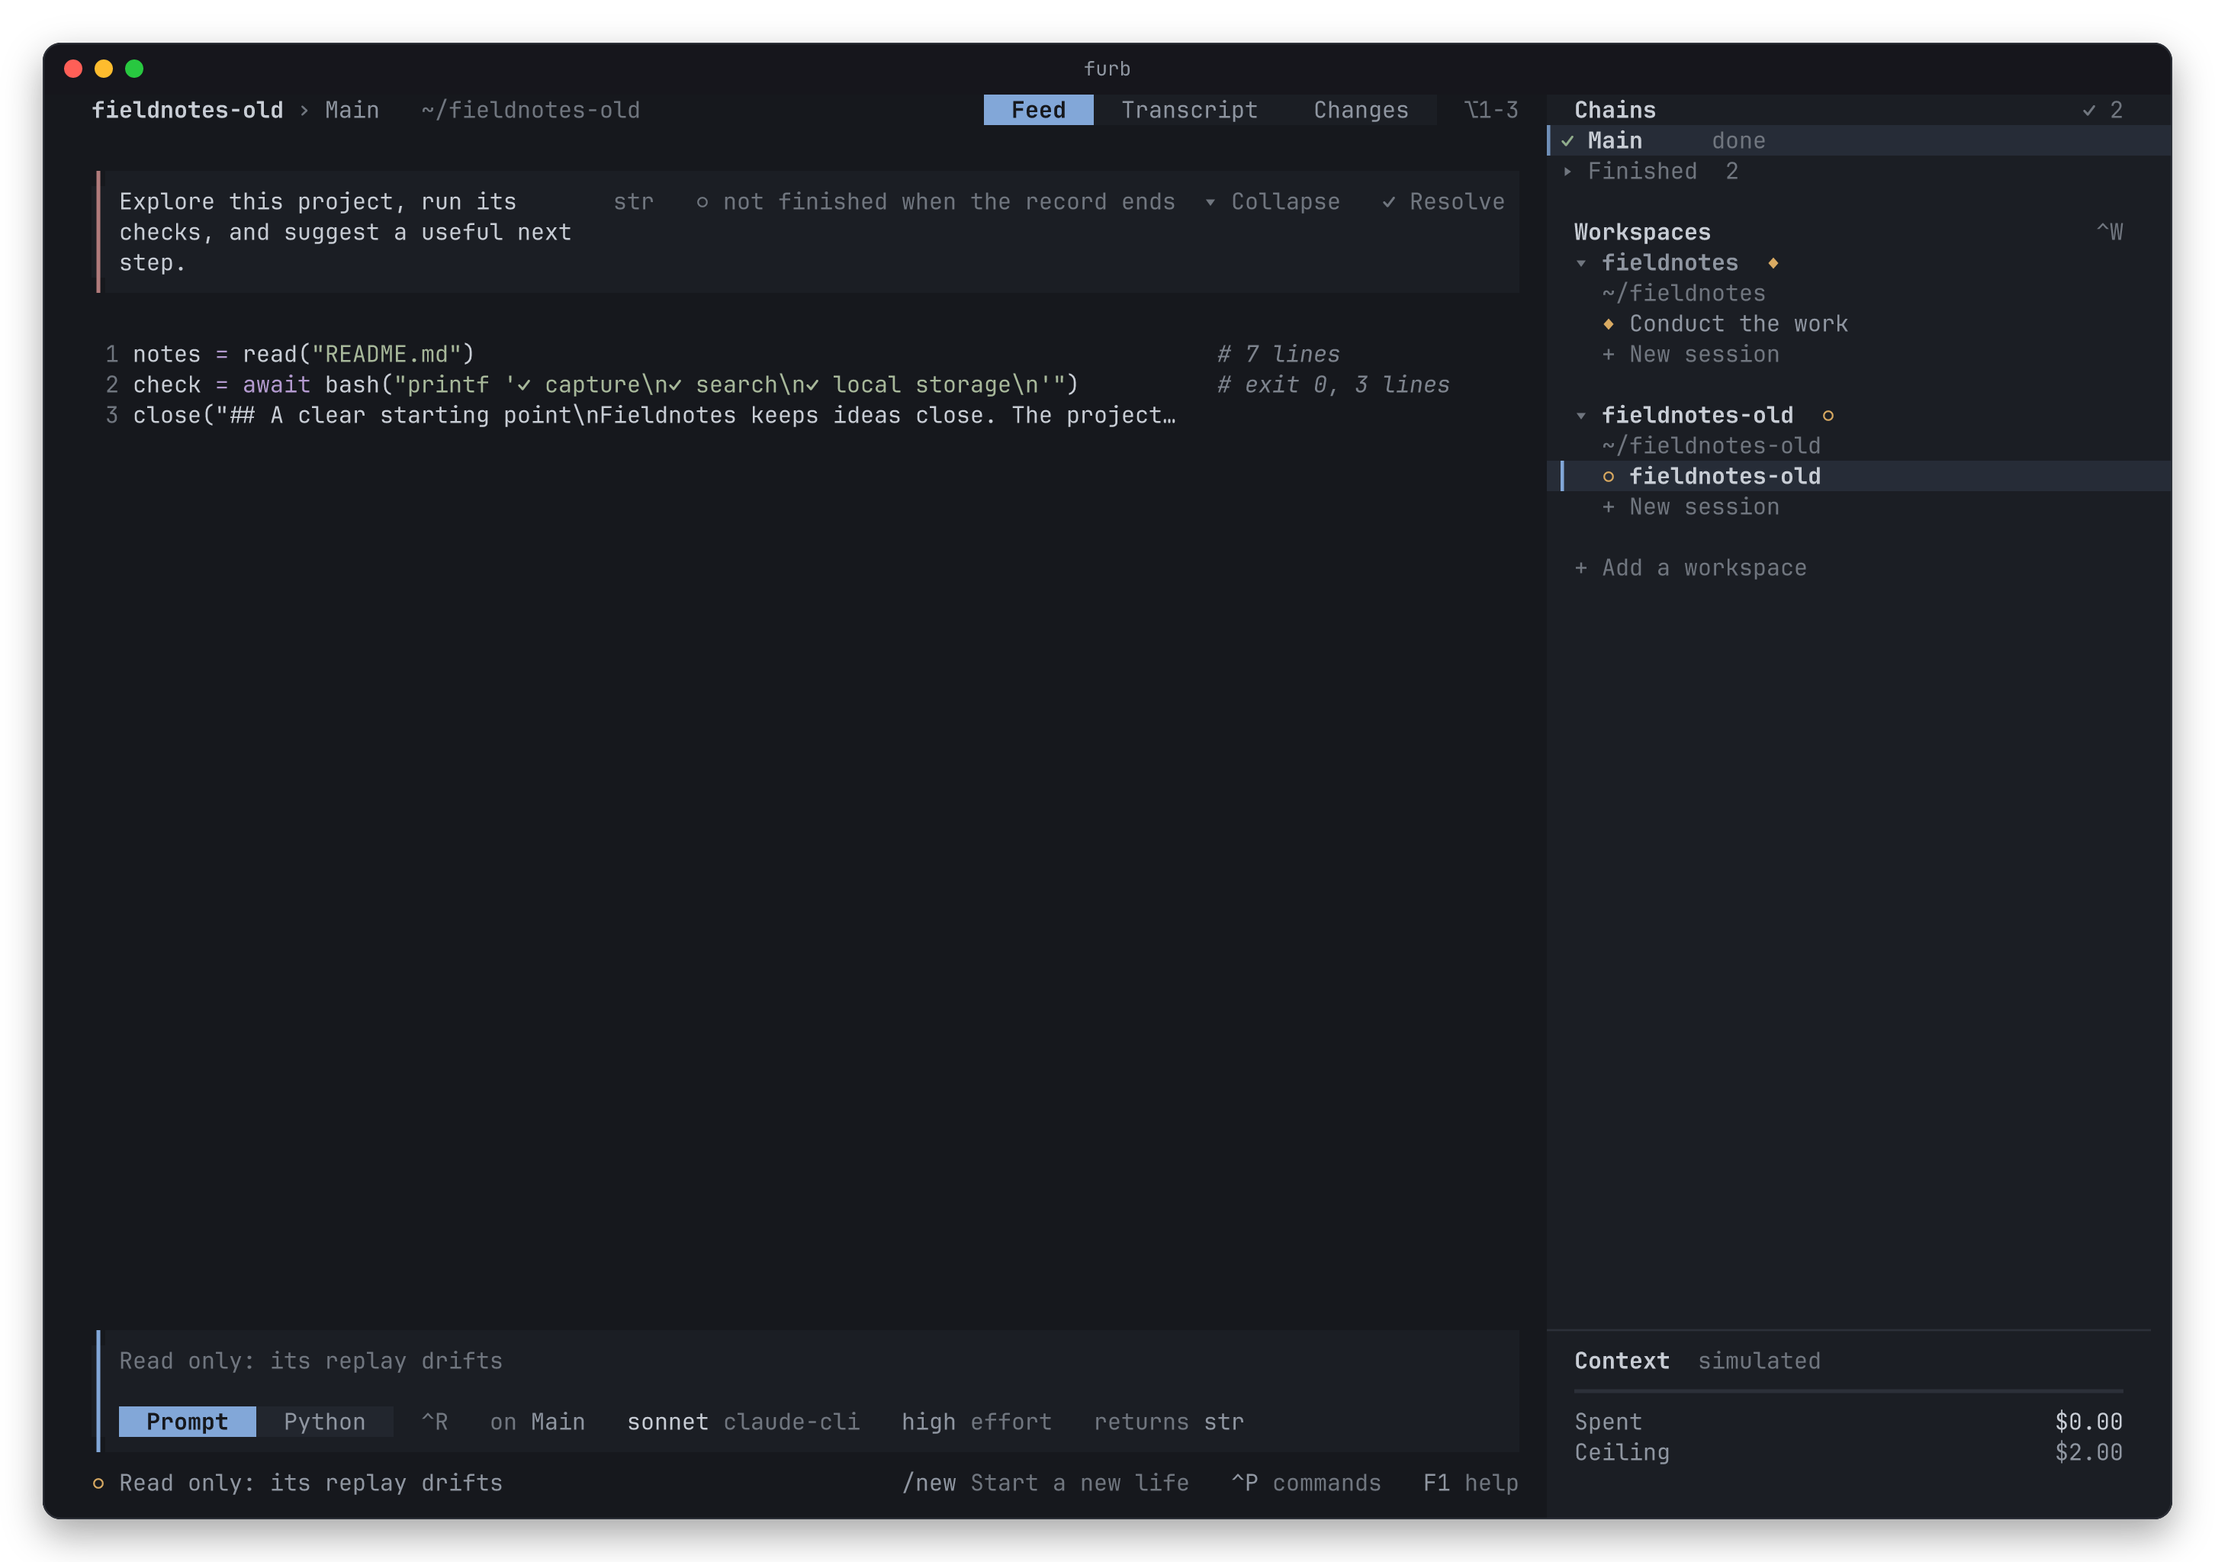
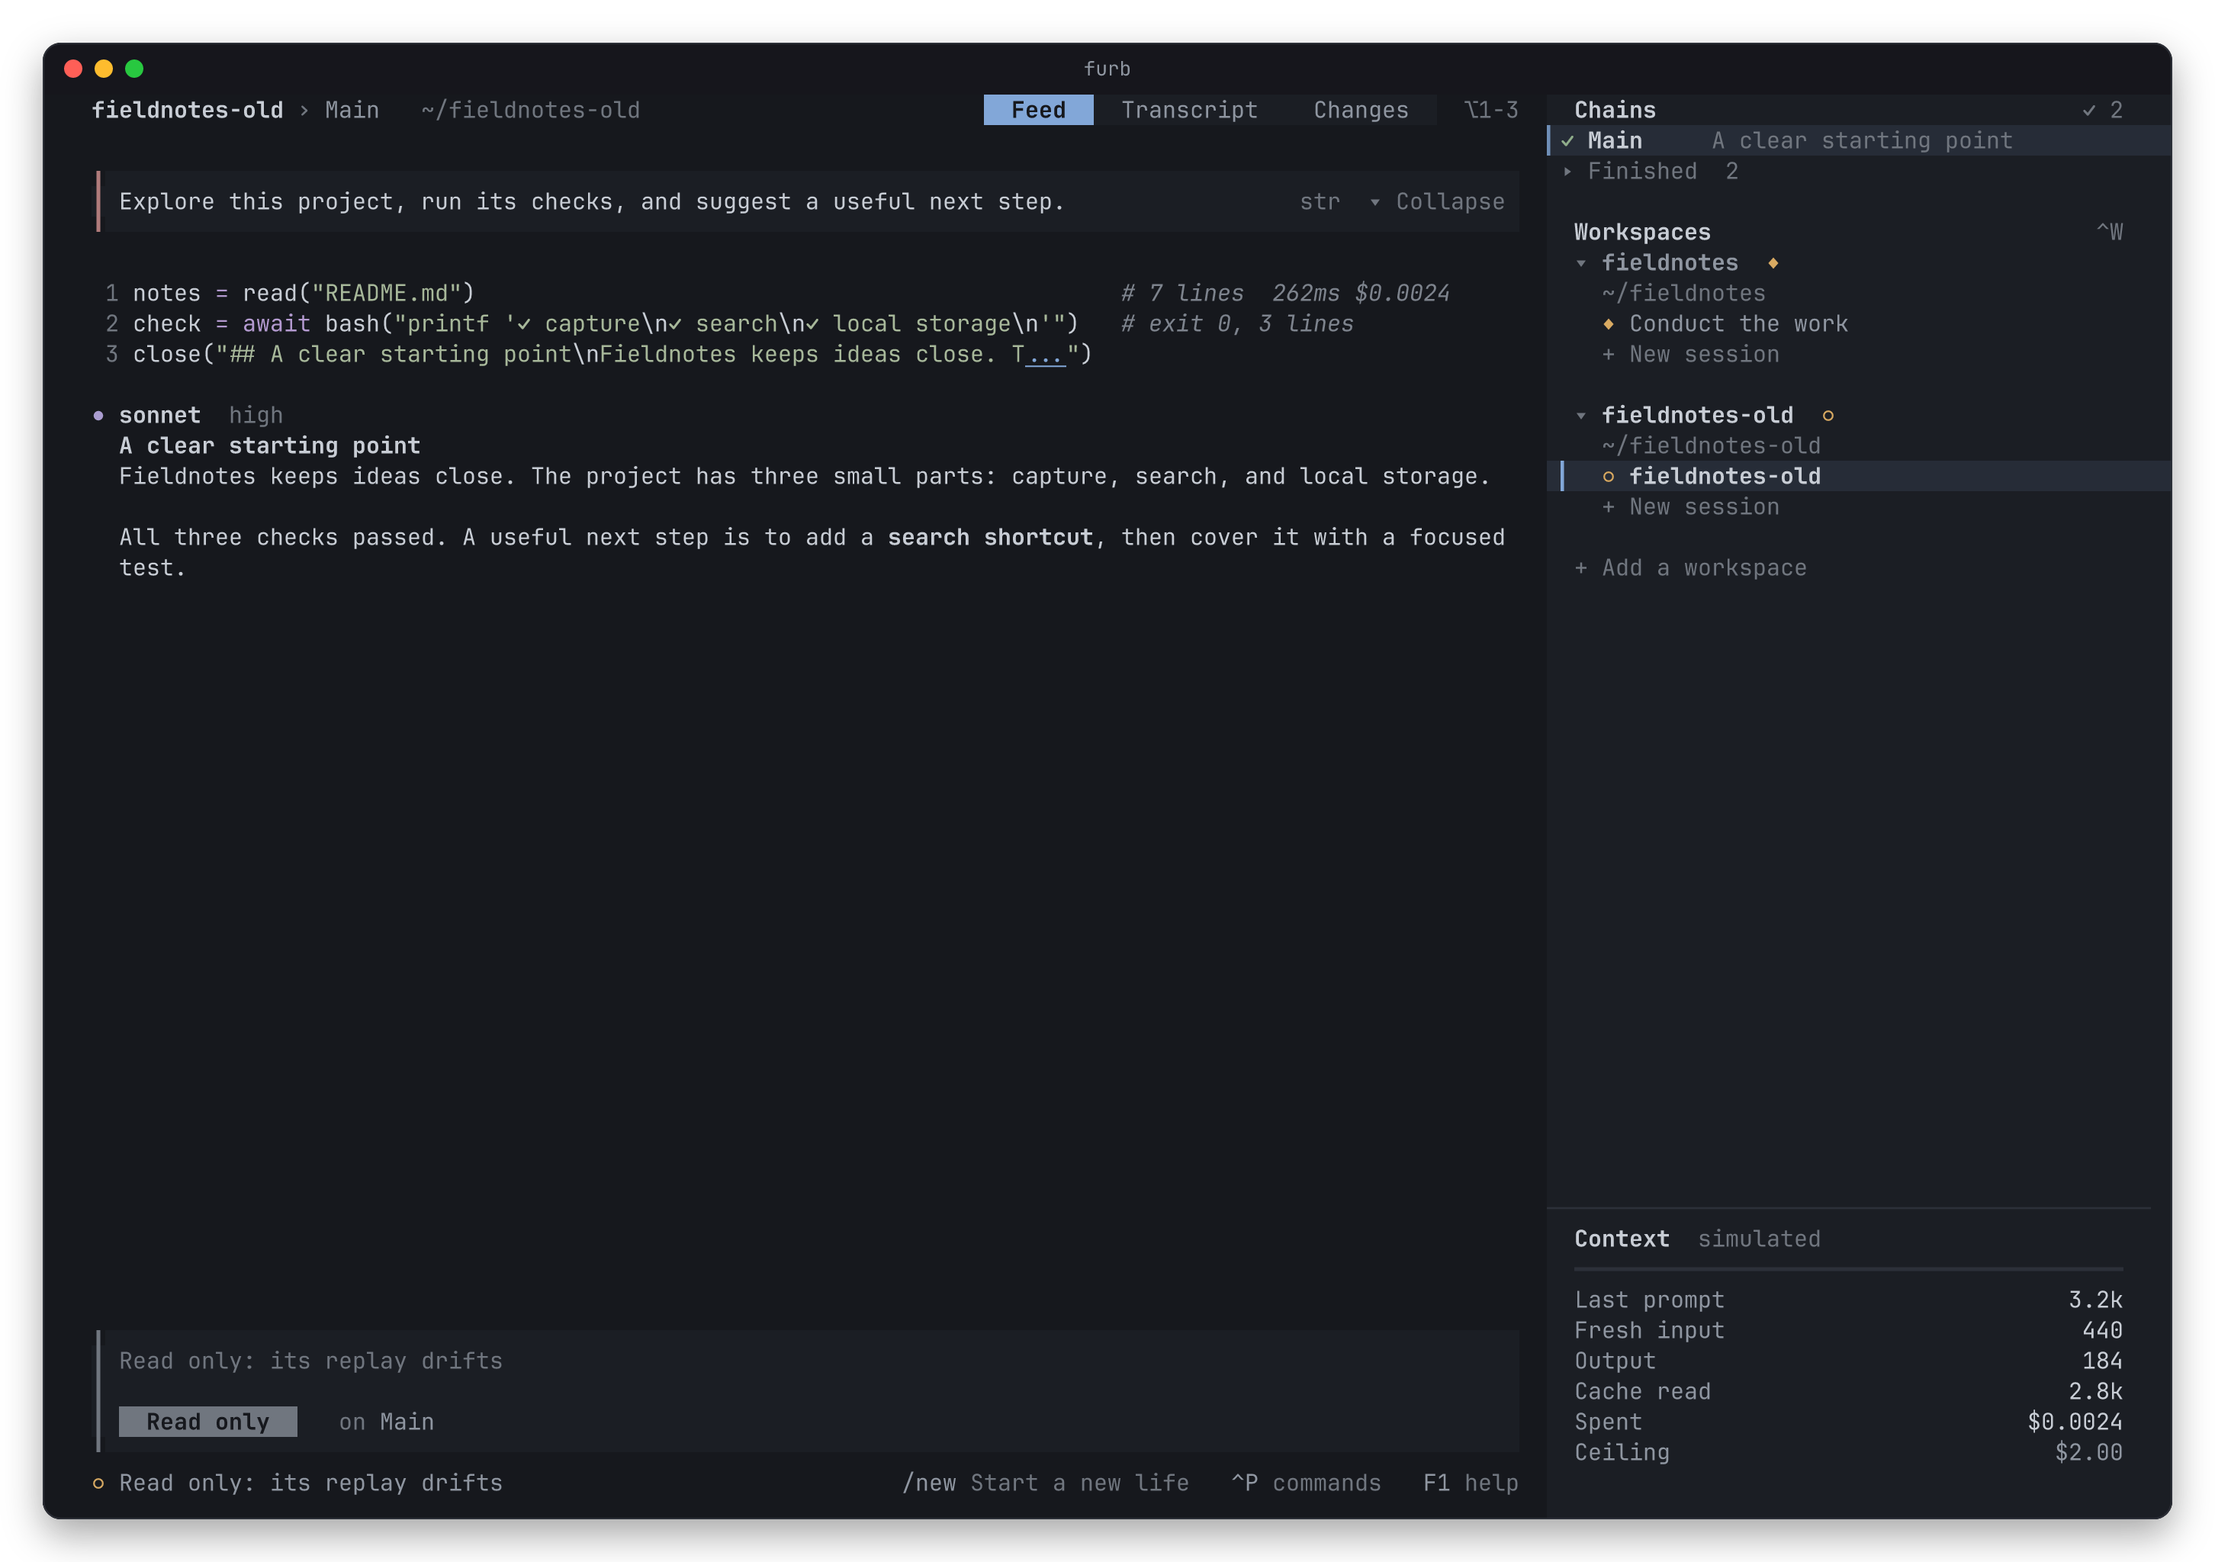
fix(tui): Finish read-only record views

diff --git a/tui/src/app.ts b/tui/src/app.ts
@@ -1257,22 +1257,25 @@ export class App {
       );
     }
     const choosing = this.picking();
-    const [mode, modeColor, placeholder] = w.editing
-      ? ["Edit program", c.warning, "Edit this prompt's Python program"]
-      : pending
-        ? [
-            "Answer",
-            c.warning,
-            choosing
-              ? `Your own words in place of ${wants(pending)}. Esc goes back to the values.`
-              : `Your answer to ${pending.id}, as ${pending.shape}`,
-          ]
-        : w.mode === "python"
-          ? ["Python", c.secondary, "Write Python. The gate reads it before it runs."]
-          : ["Prompt", c.accent, "Ask anything, or type / for commands"];
+    const reading = w.host.reading;
+    const [mode, modeColor, placeholder] = reading
+      ? ["Read only", c.faint, readOnly(reading)]
+      : w.editing
+        ? ["Edit program", c.warning, "Edit this prompt's Python program"]
+        : pending
+          ? [
+              "Answer",
+              c.warning,
+              choosing
+                ? `Your own words in place of ${wants(pending)}. Esc goes back to the values.`
+                : `Your answer to ${pending.id}, as ${pending.shape}`,
+            ]
+          : w.mode === "python"
+            ? ["Python", c.secondary, "Write Python. The gate reads it before it runs."]
+            : ["Prompt", c.accent, "Ask anything, or type / for commands"];
     for (const edge of this.composeEdges) if (edge.borderColor !== modeColor) edge.borderColor = modeColor;
     this.composer.cursorColor = modeColor;
-    this.composer.placeholder = w.host.reading ? readOnly(w.host.reading) : placeholder;
+    this.composer.placeholder = placeholder;
     this.renderPick(choosing);
     // The box holds the values of a choice, or the lines of the text, up to six, then a row of space and the line
     // under the text. While Other takes the words of the operator, it holds both.
@@ -1396,7 +1399,8 @@ export class App {
     const { model, effort } = w.actorChoice;
     const { provider, id: name } = modelName(model);
     const stash = w.stashes[w.draftKey];
-    const prompt = w.mode === "prompt" && !w.editing && !pending;
+    const reading = Boolean(w.host.reading);
+    const prompt = w.mode === "prompt" && !w.editing && !pending && !reading;
     // The line spans the input but its bar and its padding.
     const room = this.feedWidth - 3;
     if (
@@ -1411,6 +1415,7 @@ export class App {
         pending?.shape,
         stash,
         prompt,
+        reading,
         room,
         this.theme,
       ])
@@ -1419,7 +1424,7 @@ export class App {
     this.clear(this.meta);
     // A narrow input leaves out, in this order, the provider, the type of the answer, the effort, and the chord of the
     // switch, and the stash shows less of what waits in it.
-    const edited = Boolean(w.editing || pending);
+    const edited = Boolean(w.editing || pending || reading);
     const shown = { chord: !edited, provider: prompt && Boolean(provider), shape: prompt, effort: prompt };
     const gaps = 3;
     const width = () =>
@@ -3824,12 +3829,10 @@ export class App {
   private renderPick(ask: Ask | undefined): void {
     if (this.pickBox.visible !== Boolean(ask)) this.pickBox.visible = Boolean(ask);
     const typing = !ask || this.choice.other;
-    if (this.composer.visible !== typing) {
-      this.composer.visible = typing;
-      // The input takes the keys again once no list holds them.
-      if (typing && !this.overlay) this.composer.focus();
-      else this.composer.blur();
-    }
+    if (this.composer.visible !== typing) this.composer.visible = typing;
+    // A record open to read has no input, including when a control last focused it.
+    if (this.session.host.reading || !typing || this.overlay) this.composer.blur();
+    else if (!this.composer.focused) this.composer.focus();
     if (!ask) {
       this.pickKey = "";
       return;
@@ -4902,10 +4905,12 @@ export class App {
       const chip = (label: string, run: () => void) =>
         controls.add(this.text([[` ${label} `, c.text, 0, c.raised]], c.text, { run }));
       chip(folded ? "Expand" : "Collapse", () => this.foldThread(id));
-      if (one.resolved) chip("Open again", () => this.reopenThread(id));
-      else chip("Resolve", () => this.resolveThread(one));
-      const ask = one.asks[0];
-      if (ask) chip("Answer", () => void w.point(ask).catch(this.report));
+      if (!w.host.reading) {
+        if (one.resolved) chip("Open again", () => this.reopenThread(id));
+        else chip("Resolve", () => this.resolveThread(one));
+        const ask = one.asks[0];
+        if (ask) chip("Answer", () => void w.point(ask).catch(this.report));
+      }
       this.railSession.add(controls);
     }
     const after = list.length - from - room;
@@ -4963,12 +4968,14 @@ export class App {
   }
   /** A thread resolves: its open prompt closes, and the model that works for it stops. */
   private resolveThread(thread: ChainThread): void {
+    if (this.session.host.reading) return;
     const open = [thread.act, ...thread.messages].findLast((act) => !act.done);
     if (open) void this.session.resolve(open.id).catch(this.report);
   }
   /** A thread opens again: the input takes the message that goes to it. */
   private reopenThread(id: string): void {
     const w = this.session;
+    if (w.host.reading) return;
     w.thread = id;
     this.railAt = id;
     w.notice = `Your next message goes to ${id} and opens it again.`;
@@ -5036,6 +5043,7 @@ export class App {
         () => this.foldThread(id, true),
       ),
     );
+    if (this.session.host.reading) return row;
     if (thread?.resolved)
       row.add(
         this.link(
@@ -5840,7 +5848,7 @@ export class App {
             },
           ]
         : []),
-      ...(!act.done && !act.unfinished && WORK.includes(act.kind)
+      ...(!w.host.reading && !act.done && !act.unfinished && WORK.includes(act.kind)
         ? [
             w.lastOwn?.id === act.id && message
               ? {
@@ -5855,7 +5863,7 @@ export class App {
                 },
           ]
         : []),
-      ...(this.isPoint(act)
+      ...(!w.host.reading && this.isPoint(act)
         ? [
             {
               label: message ? "Edit and send again" : "Branch after it",

diff --git a/tui/src/reading.ts b/tui/src/reading.ts
@@ -170,6 +170,13 @@ function tupled(value: unknown): unknown[] | undefined {
   return Array.isArray(held.args[0]) ? held.args[0] : held.args;
 }
 
+/** The tuple value of a recorded model answer, as the values that Activity reads. */
+function answerValue(value: unknown): unknown[] | undefined {
+  const items = tupled(value);
+  if (!items || items.length !== 4) return undefined;
+  return [items[0], items[1], tupled(items[2]) ?? items[2], items[3]];
+}
+
 /** How many characters of a turn the first word of a new life keeps, and how many it keeps of all turns. */
 const TURN = 1500;
 const BUDGET = 30000;
@@ -233,6 +240,7 @@ export class Reader {
     // stays so, with no end to come: it neither runs nor waits for a wake, so it counts as no work at all. A chain is no work, and stays as it is. A
     // rung whose run ended in the facts that the record kept ended with it. A recorded life shows a moment of a life,
     // so its work stands as it stood at that moment.
+    if (reading) this.settle();
     if (reading) reading.carries = this.carries();
     if (reading)
       for (const act of this.activity.acts.values()) {
@@ -242,6 +250,34 @@ export class Reader {
         if (!act.done && WORK.includes(act.kind) && !(act.kind === "rung" && act.run?.status !== "running"))
           act.unfinished = true;
       }
+  }
+  /** A model answer whose tuple values the activity reads from the live engine. */
+  private normalize(fact: Fact): Fact {
+    if (fact[0] !== "done" || !isQuestion("reply", fact[1])) return fact;
+    const value = answerValue(fact[3]);
+    return value ? ([fact[0], fact[1], fact[2], value, ...fact.slice(4)] as Fact) : fact;
+  }
+  /** Ends work that a recorded close or cancel already ended in the life. */
+  private settle(): void {
+    for (const [at, fact] of this.facts.entries()) {
+      const [kind, about, , value] = fact;
+      if (kind !== "close" && kind !== "cancel") continue;
+      for (const act of [...this.activity.acts.values()]) {
+        if (act.done || act.began > at || !WORK.includes(act.kind) || !this.covers(fact, act.id)) continue;
+        const ended = kind === "close" && act.id === about ? value : { is: "CancelledError", args: [] };
+        this.feed(["done", act.id, "", ended] as Fact);
+      }
+    }
+  }
+  /** Feeds a derived end fact through the activity. */
+  private feed(fact: Fact): void {
+    const ear = this.activity.hear(fact);
+    for (let step = ear.next(); !step.done; ) {
+      const asked = step.value as Call;
+      step = ear.next(
+        asked.call === "covers" ? this.covers(asked.args[0] as Fact, String(asked.args[1])) : null,
+      );
+    }
   }
   /** How many turns of the root chain say something, and how many files the acts of the record wrote. */
   private carries(): { turns: number; files: number } {
@@ -361,14 +397,9 @@ export class Reader {
 
   /** One fact: the activity hears it, and the transcript of its chain holds it. A fact of a line of the file is held
    * with its long texts cut, and an act that it ends keeps of them what its row shows, since the file holds them whole. */
-  private hear(whole: Fact, line?: Line): void {
-    const ear = this.activity.hear(whole);
-    for (let step = ear.next(); !step.done; ) {
-      const asked = step.value as Call;
-      step = ear.next(
-        asked.call === "covers" ? this.covers(asked.args[0] as Fact, String(asked.args[1])) : null,
-      );
-    }
+  private hear(told: Fact, line?: Line): void {
+    const whole = this.normalize(told);
+    this.feed(whole);
     const fact = line ? this.cut(whole, line) : whole;
     this.facts.push(fact);
     const [kind, about] = fact;

diff --git a/tui/test/read-only.test.ts b/tui/test/read-only.test.ts
@@ -171,6 +171,7 @@ test("a record open to read says so in its footer and its composer, and shows no
       await Bun.sleep(50);
       await open.screen.renderOnce();
       const frame = open.frame();
+      expect(open.session.host.reading).toBeDefined();
       expect(frame).toContain("Read only: its replay drifts");
       expect(frame).toContain("Start a new life");
       expect(frame).not.toMatch(/[⠋⠙⠹⠸⠼⠴⠦⠧⠇⠏]/);
@@ -231,6 +232,49 @@ test("a new life from a record starts with the turns of its root chain and the f
     } finally {
       await open.close();
     }
+  } finally {
+    await rm(directory, { recursive: true, force: true });
+  }
+});
+
+test("a recorded answer keeps its cost when its tuples have the record wrapper", async () => {
+  const directory = await mkdtemp(join(tmpdir(), "furb-record-cost-"));
+  try {
+    const record = join(directory, "cost.jsonl");
+    const tuple = (args: unknown[]) => ({ is: "tuple", args: [args] });
+    const facts = [
+      ["chain", "chain1", "operator", "", "root", ""],
+      ["reply", "reply1", "rung1", "chain1", "opus"],
+      ["done", "reply1", "journal", tuple(["assistant", "", tuple([10, 2, 0, 8, 0.25]), null])],
+    ];
+    await writeFile(record, `${facts.map((fact) => JSON.stringify(fact)).join("\n")}\n`);
+    const reading = { made: null, engine: "old", version: null, current: 1, why: "drift", logged: false };
+    const reader = new Reader(directory, record, reading);
+    expect(reader.activity.cost).toBe(0.25);
+  } finally {
+    await rm(directory, { recursive: true, force: true });
+  }
+});
+
+test("a close in the record ends the work it closed without ending truncated work", async () => {
+  const directory = await mkdtemp(join(tmpdir(), "furb-record-close-"));
+  try {
+    const record = join(directory, "close.jsonl");
+    const facts = [
+      ["chain", "chain1", "operator", "", "root", ""],
+      ["prompt", "prompt1", "operator", "chain1", "str", "Do the work.", ""],
+      ["rung", "rung1", "prompt1", "chain1", "closed word", "", ""],
+      ["close", "prompt1", "console", "finished"],
+      ["rung", "rung2", "operator", "chain1", "unfinished word", "", ""],
+    ];
+    await writeFile(record, `${facts.map((fact) => JSON.stringify(fact)).join("\n")}\n`);
+    const reading = { made: null, engine: "old", version: null, current: 1, why: "drift", logged: false };
+    const reader = new Reader(directory, record, reading);
+    expect(reader.activity.acts.get("prompt1")).toMatchObject({ done: true, value: "finished" });
+    const closed = reader.activity.acts.get("rung1");
+    expect(closed).toMatchObject({ done: true });
+    expect(closed?.unfinished).toBeUndefined();
+    expect(reader.activity.acts.get("rung2")).toMatchObject({ done: false, unfinished: true });
   } finally {
     await rm(directory, { recursive: true, force: true });
   }

diff --git a/tui/script/screenshots.ts b/tui/script/screenshots.ts
@@ -643,8 +643,7 @@ try {
   await older.dispose();
   const kept = await readFile(drifts, "utf8");
   await writeFile(drifts, kept.replace(/("bash","bash\d+","rung\d+","chain\d+","[^"]*"),""/, "$1,false"));
-  // A record of an earlier engine has no log beside it, so the TUI shows the facts that the record kept.
-  await rm(`${drifts}.log`, { force: true });
+  // Keep the log with the record, since it holds the close that completed its prompt.
   await library.import(drifts, await library.add(older.host.directory));
   session = library.current?.session ?? session;
   await capture("56-record-to-read");
